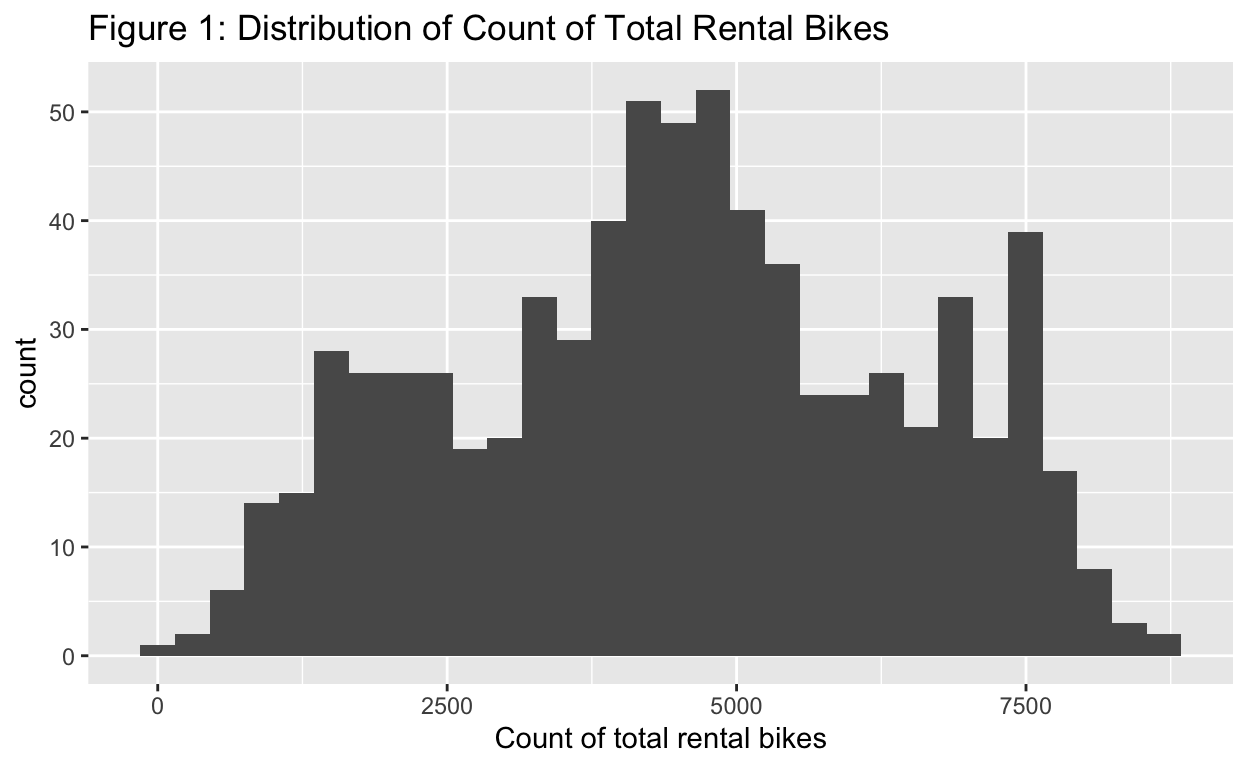
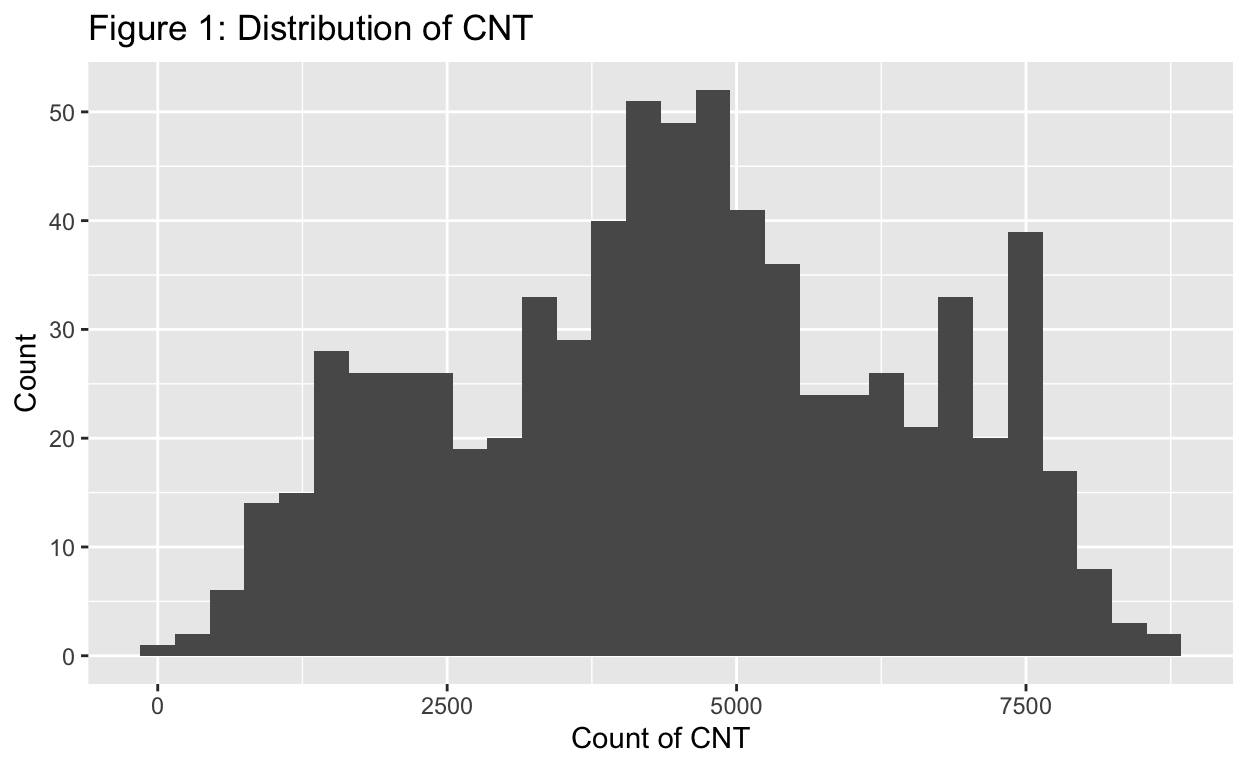
no rescale

Changed region(s): [[0.375, 0.0, 0.7188, 0.0625], [0.4062, 0.9375, 0.6562, 1.0], [0.0, 0.4375, 0.0312, 0.5312]]

diff --git a/index.html b/index.html
@@ -1595,8 +1595,9 @@ code span.wa { color: #5e5e5e; font-style: italic; } /* Warning */
 <span><span class='va'>dist_cnt</span> <span class='op'>&lt;-</span> <span class='va'>df</span> <span class='op'>|&gt;</span></span>
 <span>  <span class='fu'><a href='https://ggplot2.tidyverse.org/reference/ggplot.html'>ggplot</a></span><span class='op'>(</span><span class='fu'><a href='https://ggplot2.tidyverse.org/reference/aes.html'>aes</a></span><span class='op'>(</span>x <span class='op'>=</span> <span class='va'>cnt</span><span class='op'>)</span><span class='op'>)</span> <span class='op'>+</span></span>
 <span>  <span class='fu'><a href='https://ggplot2.tidyverse.org/reference/geom_histogram.html'>geom_histogram</a></span><span class='op'>(</span><span class='op'>)</span> <span class='op'>+</span></span>
-<span>  <span class='fu'><a href='https://ggplot2.tidyverse.org/reference/labs.html'>labs</a></span><span class='op'>(</span>title <span class='op'>=</span> <span class='st'>"Figure 1: Distribution of Count of Total Rental Bikes"</span>,</span>
-<span>       x <span class='op'>=</span> <span class='st'>"Count of total rental bikes"</span><span class='op'>)</span></span>
+<span>  <span class='fu'><a href='https://ggplot2.tidyverse.org/reference/labs.html'>labs</a></span><span class='op'>(</span>title <span class='op'>=</span> <span class='st'>"Figure 1: Distribution of CNT"</span>,</span>
+<span>       x <span class='op'>=</span> <span class='st'>"Count of CNT"</span>,</span>
+<span>       y <span class='op'>=</span> <span class='st'>"Count"</span><span class='op'>)</span></span>
 <span><span class='va'>dist_cnt</span></span></code></pre>
 </div>
 <p><img src="index_files/figure-html5/unnamed-chunk-2-1.png" width="624" /></p>
@@ -1640,7 +1641,7 @@ F-statistic: 70.73 on 1 and 729 DF,  p-value: &lt; 2.2e-16</code></pre>
 <span>  <span class='fu'><a href='https://ggplot2.tidyverse.org/reference/geom_smooth.html'>geom_smooth</a></span><span class='op'>(</span>method <span class='op'>=</span> <span class='st'>"lm"</span>, se <span class='op'>=</span> <span class='cn'>FALSE</span><span class='op'>)</span> <span class='op'>+</span></span>
 <span>  <span class='fu'><a href='https://ggplot2.tidyverse.org/reference/labs.html'>labs</a></span><span class='op'>(</span>title <span class='op'>=</span> <span class='st'>"Figure 2: Regression of CNT on Weather Inclemency"</span>,</span>
 <span>       x <span class='op'>=</span> <span class='st'>"Weather Inclemency"</span>,</span>
-<span>       y <span class='op'>=</span> <span class='st'>"Count of total rental bikes"</span><span class='op'>)</span></span></code></pre>
+<span>       y <span class='op'>=</span> <span class='st'>"CNT"</span><span class='op'>)</span></span></code></pre>
 </div>
 <p><img src="index_files/figure-html5/unnamed-chunk-3-1.png" width="624" /></p>
 </div>
@@ -1682,7 +1683,7 @@ F-statistic: 109.4 on 6 and 724 DF,  p-value: &lt; 2.2e-16</code></pre>
 <span>  <span class='fu'><a href='https://ggplot2.tidyverse.org/reference/geom_smooth.html'>geom_smooth</a></span><span class='op'>(</span>method <span class='op'>=</span> <span class='st'>"lm"</span>, se <span class='op'>=</span> <span class='cn'>FALSE</span><span class='op'>)</span> <span class='op'>+</span></span>
 <span>  <span class='fu'><a href='https://ggplot2.tidyverse.org/reference/labs.html'>labs</a></span><span class='op'>(</span>title <span class='op'>=</span> <span class='st'>"Figure 3: Regression of CNT on Weather Inclemency"</span>,</span>
 <span>       x <span class='op'>=</span> <span class='st'>"Weather Inclemency"</span>,</span>
-<span>       y <span class='op'>=</span> <span class='st'>"Count of total rental bikes"</span><span class='op'>)</span></span></code></pre>
+<span>       y <span class='op'>=</span> <span class='st'>"CNT"</span><span class='op'>)</span></span></code></pre>
 </div>
 <img src="index_files/figure-html5/unnamed-chunk-5-1.png" width="624" />
 <div class="sourceCode">
@@ -1692,7 +1693,7 @@ F-statistic: 109.4 on 6 and 724 DF,  p-value: &lt; 2.2e-16</code></pre>
 <span>  <span class='fu'><a href='https://ggplot2.tidyverse.org/reference/geom_smooth.html'>geom_smooth</a></span><span class='op'>(</span>method <span class='op'>=</span> <span class='st'>"lm"</span>, se <span class='op'>=</span> <span class='cn'>FALSE</span><span class='op'>)</span> <span class='op'>+</span></span>
 <span>  <span class='fu'><a href='https://ggplot2.tidyverse.org/reference/labs.html'>labs</a></span><span class='op'>(</span>title <span class='op'>=</span> <span class='st'>"Figure 4: Regression of CNT on Feeling Temperature"</span>,</span>
 <span>       x <span class='op'>=</span> <span class='st'>"Normalized feeling temperature (Celsius)"</span>,</span>
-<span>       y <span class='op'>=</span> <span class='st'>"Count of total rental bikes"</span><span class='op'>)</span></span></code></pre>
+<span>       y <span class='op'>=</span> <span class='st'>"CNT"</span><span class='op'>)</span></span></code></pre>
 </div>
 <img src="index_files/figure-html5/unnamed-chunk-5-2.png" width="624" />
 <div class="sourceCode">
@@ -1702,7 +1703,7 @@ F-statistic: 109.4 on 6 and 724 DF,  p-value: &lt; 2.2e-16</code></pre>
 <span>  <span class='fu'><a href='https://ggplot2.tidyverse.org/reference/geom_smooth.html'>geom_smooth</a></span><span class='op'>(</span>method <span class='op'>=</span> <span class='st'>"lm"</span>, se <span class='op'>=</span> <span class='cn'>FALSE</span><span class='op'>)</span> <span class='op'>+</span></span>
 <span>  <span class='fu'><a href='https://ggplot2.tidyverse.org/reference/labs.html'>labs</a></span><span class='op'>(</span>title <span class='op'>=</span> <span class='st'>"Figure 5: Regression of CNT on Humidity"</span>,</span>
 <span>       x <span class='op'>=</span> <span class='st'>"Normalized Humidity"</span>,</span>
-<span>       y <span class='op'>=</span> <span class='st'>"Count of total rental bikes"</span><span class='op'>)</span></span></code></pre>
+<span>       y <span class='op'>=</span> <span class='st'>"CNT"</span><span class='op'>)</span></span></code></pre>
 </div>
 <img src="index_files/figure-html5/unnamed-chunk-5-3.png" width="624" />
 <div class="sourceCode">
@@ -1712,7 +1713,7 @@ F-statistic: 109.4 on 6 and 724 DF,  p-value: &lt; 2.2e-16</code></pre>
 <span>  <span class='fu'><a href='https://ggplot2.tidyverse.org/reference/geom_smooth.html'>geom_smooth</a></span><span class='op'>(</span>method <span class='op'>=</span> <span class='st'>"lm"</span>, se <span class='op'>=</span> <span class='cn'>FALSE</span><span class='op'>)</span> <span class='op'>+</span></span>
 <span>  <span class='fu'><a href='https://ggplot2.tidyverse.org/reference/labs.html'>labs</a></span><span class='op'>(</span>title <span class='op'>=</span> <span class='st'>"Figure 6: Regression of CNT on Wind Speed"</span>,</span>
 <span>       x <span class='op'>=</span> <span class='st'>"Normalized Wind Speed"</span>,</span>
-<span>       y <span class='op'>=</span> <span class='st'>"Count of total rental bikes"</span><span class='op'>)</span></span></code></pre>
+<span>       y <span class='op'>=</span> <span class='st'>"CNT"</span><span class='op'>)</span></span></code></pre>
 </div>
 <p><img src="index_files/figure-html5/unnamed-chunk-5-4.png" width="624" /></p>
 </div>
